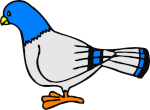
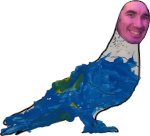
Add semi-usable splash, enable navigation, update glass panes... :)

diff --git a/amoeba-pigeon.js b/amoeba-pigeon.js
@@ -16,7 +16,10 @@ class AmoebaPigeon extends Phaser.Scene {
     preload() {
         this.load.image('background-pigeon', 'assets/background-pigeon.jpg');
         this.load.image('amoeba-pigeon', 'assets/amoeba-pigeon.png');
-        this.load.image('glass', 'assets/glass-pane.jpg');
+        this.load.image('back-white', 'assets/back-white.png');
+        this.load.image('glass-3', 'assets/glass-3.png');
+        this.load.image('glass-1', 'assets/glass-1.png');
+        this.load.image('glass-2', 'assets/glass-2.png');
         this.load.audio('pigeon', 'assets/pigeon.mp3');
         this.load.script('webfont', 'https://ajax.googleapis.com/ajax/libs/webfont/1.6.26/webfont.js');
     }
@@ -24,12 +27,18 @@ class AmoebaPigeon extends Phaser.Scene {
     create() {
         let add = this.add;
         add.image(460, 340, 'background-pigeon');
+        let back = this.physics.add.image(880, 25, "back-white");
+        back.setInteractive();
+        back.setInteractive();
+        back.on('pointerdown', function (event) {
+            this.scene.start("Splash");
+        }, this);
 
         let slides = this.physics.add.staticGroup();
-        slides.create(195, 645, 'glass');
-        slides.create(820, 10, 'glass');
-        slides.create(750, 380, 'glass');
-        slides.create(50, 280, 'glass');
+        slides.create(195, 645, 'glass-1');
+        slides.create(820, 10, 'glass-1');
+        slides.create(750, 380, 'glass-2');
+        slides.create(50, 280, 'glass-3');
 
         pigeonAmoebas = this.physics.add.group();
 

diff --git a/splash.js b/splash.js
@@ -3,14 +3,41 @@ class Splash extends Phaser.Scene {
         super({key: "Splash"});
     }
 
+    preload() {
+        this.load.image('amoeba-lassie', 'assets/amoeba-lassie.png');
+        this.load.image('amoeba-pigeon', 'assets/amoeba-pigeon.png');
+        this.load.script('webfont', 'https://ajax.googleapis.com/ajax/libs/webfont/1.6.26/webfont.js');
+    }
+
     create() {
-        this.text = this.add.text(20, 50, "Kill Amoeba", {fontFamily: 'Roboto', fontSize: 80, color: 'White'});
+        let add = this.add;
+
+        let lassie = this.physics.add.image(180, 400, "amoeba-lassie");
+        lassie.setInteractive();
+        lassie.on('pointerdown', function (event) {
+            this.scene.start("AmoebaLassie");
+        }, this);
+
+        let pigeon = this.physics.add.image(580, 400, "amoeba-pigeon");
+        pigeon.setInteractive();
+        pigeon.on('pointerdown', function (event) {
+            this.scene.start("AmoebaPigeon");
+        }, this);
 
         this.input.keyboard.on('keyup', function(e) {
-            if (e.key === "l") {
-                this.scene.start("AmoebaLassie");
+            if (e.key === "d") {
+                console.log("implement original amoeba?")
             }
         }, this);
+
+        WebFont.load({
+            google: {
+                families: ['Nosifer']
+            },
+            active: function() {
+                pigeonKilledText = add.text(100, 50, 'Kill Amoeba', {fontFamily: 'Nosifer', fontSize: 80, color: 'White' });
+            }
+        });
     }
 
 }

diff --git a/amoeba-lassie.js b/amoeba-lassie.js
@@ -19,6 +19,7 @@ class AmoebaLassie extends Phaser.Scene {
     preload() {
         this.load.image('background-lassie', 'assets/background-lassie.jpg');
         this.load.image('amoeba-lassie', 'assets/amoeba-lassie.png');
+        this.load.image('back-red', 'assets/back-red.png');
         this.load.image('java-rant-1', 'assets/java-rant-1.png');
         this.load.image('java-rant-2', 'assets/java-rant-2.png');
         this.load.image('java-rant-3', 'assets/java-rant-3.png');
@@ -35,6 +36,11 @@ class AmoebaLassie extends Phaser.Scene {
     create() {
         let add = this.add;
         add.image(460, 340, 'background-lassie');
+        let back = this.physics.add.image(880, 85, "back-red");
+        back.setInteractive();
+        back.on('pointerdown', function (event) {
+            this.scene.start("Splash");
+        }, this);
 
         lassieAmoebas = this.physics.add.group();
         hackles = this.physics.add.group();

diff --git a/index.html b/index.html
@@ -28,7 +28,7 @@
                     debug: false
                 }
             },
-            scene: [AmoebaPigeon, AmoebaLassie, Splash]
+            scene: [Splash, AmoebaPigeon, AmoebaLassie]
         };
         let game = new Phaser.Game(config);
     </script>
